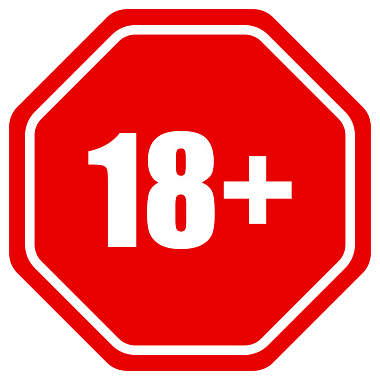
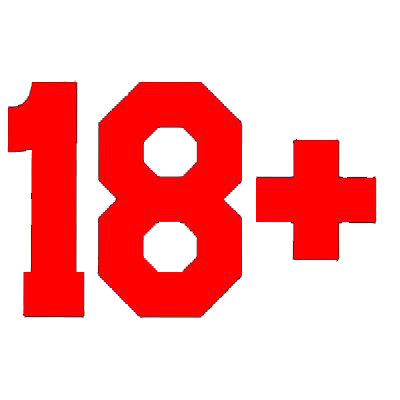
fix

diff --git a/client/src/components/AppHeader.js b/client/src/components/AppHeader.js
@@ -35,6 +35,8 @@ const AppHeader = (props) => {
   const dispatch = useDispatch()
   const sidebarShow = useSelector((state) => state.sidebarShow)
 
+  const { workerCall, showCallCard, setShowCallCard, } = useUsersContext();
+
   const [soundCount, setSoundCount] = useState(100)
   const [mutePress, setMutePress] = useState(false)
   const [showBar, setShowBar] = useState(false)
@@ -42,6 +44,8 @@ const AppHeader = (props) => {
   const [showToast, setShowToast] = useState(false)
   const [shake, setShake] = useState(false)
   const [shake2, setShake2] = useState(false)
+  const [shake3, setShake3] = useState(false)
+  const [shake4, setShake4] = useState(false)
   const toaster = useRef()
 
 
@@ -84,6 +88,22 @@ const AppHeader = (props) => {
     } else if (soundCount === 25) {
       setSoundCount(0)
     } 
+  }
+
+  const updateD = () => {
+    // Button begins to shake
+    setShake3(true);
+        
+    // Buttons stops to shake after 2 seconds
+    setTimeout(() => setShake3(false), 100);
+  }
+
+  const updateA = () => {
+    // Button begins to shake
+    setShake4(true);
+        
+    // Buttons stops to shake after 2 seconds
+    setTimeout(() => setShake4(false), 100);
   }
 
   return (
@@ -144,7 +164,7 @@ const AppHeader = (props) => {
             <CNavLink onClick={clickPhone} style={{position: 'relative', transform: 'rotate(90deg)', marginBottom: '3px'}}>
               <CIcon icon={cilPhone} size="lg"/>
             </CNavLink>
-            <div style={{display: showToast ? 'block' : 'none', position: 'absolute', top: '65px', right: '25px', width: '900px', height: '300px', backgroundColor: '#2a2f32', borderRadius: '15px', padding: '15px'}}>
+            <div style={{display: showCallCard ? 'block' : 'none', position: 'absolute', top: '65px', right: '25px', width: '900px', height: '300px', backgroundColor: '#2a2f32', borderRadius: '15px', padding: '15px'}}>
                 <div className="d-flex" style={{justifyContent: 'space-between'}}>
                   <CToastBody>
                     <div style={{display: 'flex'}}>
@@ -169,7 +189,7 @@ const AppHeader = (props) => {
                     </div>
                     
                   </CToastBody>
-                  <CToastClose onClick={()=>setShowToast(false)} white style={{marginTop: '0px', marginRight: '0px'}}/>
+                  <CToastClose onClick={()=>setShowCallCard(false)} white style={{marginTop: '0px', marginRight: '0px'}}/>
                 </div>
             </div> 
           </CNavItem>
@@ -213,10 +233,10 @@ const AppHeader = (props) => {
                           </div>
                     </div>
                     <div style={{display: 'flex', flexDirection: 'column'}}>
-                      <CButton color="dark" style={{marginLeft: '10px', marginBottom: '5px', background: '#595d5f', fontSize: '8px', width:'20px', height: '20px', padding: '0'}}>
+                      <CButton onClick={updateD} color="dark" style={{marginLeft: '10px', marginBottom: '5px', background: shake3 ? '#262829' : '#595d5f', fontSize: '8px', width:'20px', height: '20px', padding: '0'}}>
                         Д
                       </CButton>
-                      <CButton color="dark" style={{marginLeft: '10px',  background: '#595d5f', fontSize: '8px', width:'20px', height: '20px', padding: '0'}}>
+                      <CButton onClick={updateA} color="dark" style={{marginLeft: '10px',  background: shake4 ? '#262829' : '#595d5f', fontSize: '8px', width:'20px', height: '20px', padding: '0'}}>
                         А
                       </CButton>
                     </div>

diff --git a/client/src/chat-app-new/context/usersContext.js b/client/src/chat-app-new/context/usersContext.js
@@ -78,7 +78,11 @@ const UsersProvider = ({ children }) => {
 
 	const [soundsNotif, setSoundsNotif] = useState([]); 
 
+	const [showCallCard, setShowCallCard] = useState(false);
+	const [workerCall, setWorkerCall] = useState();
+
 	const audioMessage = new Audio(soundMessage);
+	const audioMessageW = new Audio(boopSfx);
 	const audioProject = new Audio(soundProject);
 	const audioSmeta = new Audio(soundSmeta);
 	
@@ -1015,7 +1019,8 @@ const fetchMessageSpecResponse = async(data) => {
 		//console.log("Пришло новое сообщение в workhub: ", count+1)
 
 		//play sound
-		audioWorkhub.play();		
+		//audioWorkhub.play();	
+		audioMessageW.play();	
 	}
 
 	setUserWorkers((userWorkers) => {
@@ -1194,9 +1199,9 @@ const delWMessageContext = (messageId, messageDate, chatId) => {
 //===============================================================
 //                  Notifications
 //===============================================================
-const fetchNotifAdmin = (data) => {
+const fetchNotifAdmin = (dataAll) => {
 	//console.log("Получено звуковое уведомление: ", data)
-	const { task } = data;
+	const { task, data } = dataAll;
 
 	if (task === 1) {
 		audio120.play();
@@ -1263,6 +1268,10 @@ const fetchNotifAdmin = (data) => {
 	else if (task === 101) {
 		audioNarush2.play();
 	}
+	else if (task === 200) {
+		setShowCallCard(true)
+		setWorkerCall(data.fio)
+	}
 }
 
 	return (
@@ -1309,7 +1318,10 @@ const fetchNotifAdmin = (data) => {
 			soundsNotif, 
 			setSoundsNotif,
 			pretendents,
-			setPretendents
+			setPretendents,
+			workerCall,
+			showCallCard,
+			setShowCallCard,
 		}}>
 			{children}
 		</UsersContext.Provider>

diff --git a/client/src/chat-app-worker/components/Sidebar/Contact.jsx b/client/src/chat-app-worker/components/Sidebar/Contact.jsx
@@ -6,7 +6,7 @@ import { AccountContext } from './../../../chat-app-new/context/AccountProvider'
 import avatarDefault from "./../../../chat-app-new/assets/images/no-avatar.png";
 import avatarBlacklist from "./../../../chat-app-worker/assets/images/uncheck.png";
 import blockUser from "./../../../chat-app-worker/assets/images/stop.png";
-import block18 from "./../../../assets/images/block18.jpg";
+import block18 from "./../../../assets/images/block18.png";
 
 import { useUsersContext } from "./../../../chat-app-new/context/usersContext";
 
@@ -151,7 +151,7 @@ const Contact = ({ contact, worker }) => {
 				{
 					worker.length !== 0 ? 
 					((JSON.parse(worker[0].worklist)).find(item => item.spec === '+18') ? 
-					<img src={block18} alt='' width={18} style={{position: 'absolute', top: '34px', left: '32px', borderRadius: '50%'}}/>
+					<img src={block18} alt='' width={18} style={{position: 'absolute', top: '34px', left: '32px', width: '23px'}}/>
 					: "")
 					: ""
 				}

diff --git a/client/src/pages/Workers.js b/client/src/pages/Workers.js
@@ -47,10 +47,10 @@ const Workers = () => {
 
 
   //поиск
-  useEffect(() => {
-		const filteredData = pretendents.filter(user=> (user.project + user.workerFamily + user.workerName)?.replace(/[её]/g, '(е|ё)').toLowerCase().includes(text.replace(/[её]/g, '(е|ё)').toLowerCase()));
-    setSpec(text === '' ? pretendents : filteredData) 
-  }, [text]);
+  // useEffect(() => {
+	// 	const filteredData = pretendents.filter(user=> (user.project + user.workerFamily + user.workerName)?.replace(/[её]/g, '(е|ё)').toLowerCase().includes(text.replace(/[её]/g, '(е|ё)').toLowerCase()));
+  //   setSpec(text === '' ? pretendents : filteredData) 
+  // }, [text]);
 
 
 

diff --git a/client/src/components/DropdownHeader.css b/client/src/components/DropdownHeader.css
@@ -4,9 +4,9 @@
 }
 
 @keyframes glowing {
-    0% { background-color: rgb(83, 80, 80); box-shadow: 0 0 5px rgb(247, 1, 1); }
+    0% { background-color: rgb(83, 80, 80); box-shadow: 0 0 5px rgb(83, 80, 80); }
     50% { background-color: rgb(247, 1, 1); box-shadow: 0 0 20px rgb(247, 1, 1); }
-    100% { background-color: rgb(83, 80, 80); box-shadow: 0 0 5px rgb(247, 1, 1); }
+    100% { background-color: rgb(83, 80, 80); box-shadow: 0 0 5px rgb(83, 80, 80); }
 }
     
 .button-m {
